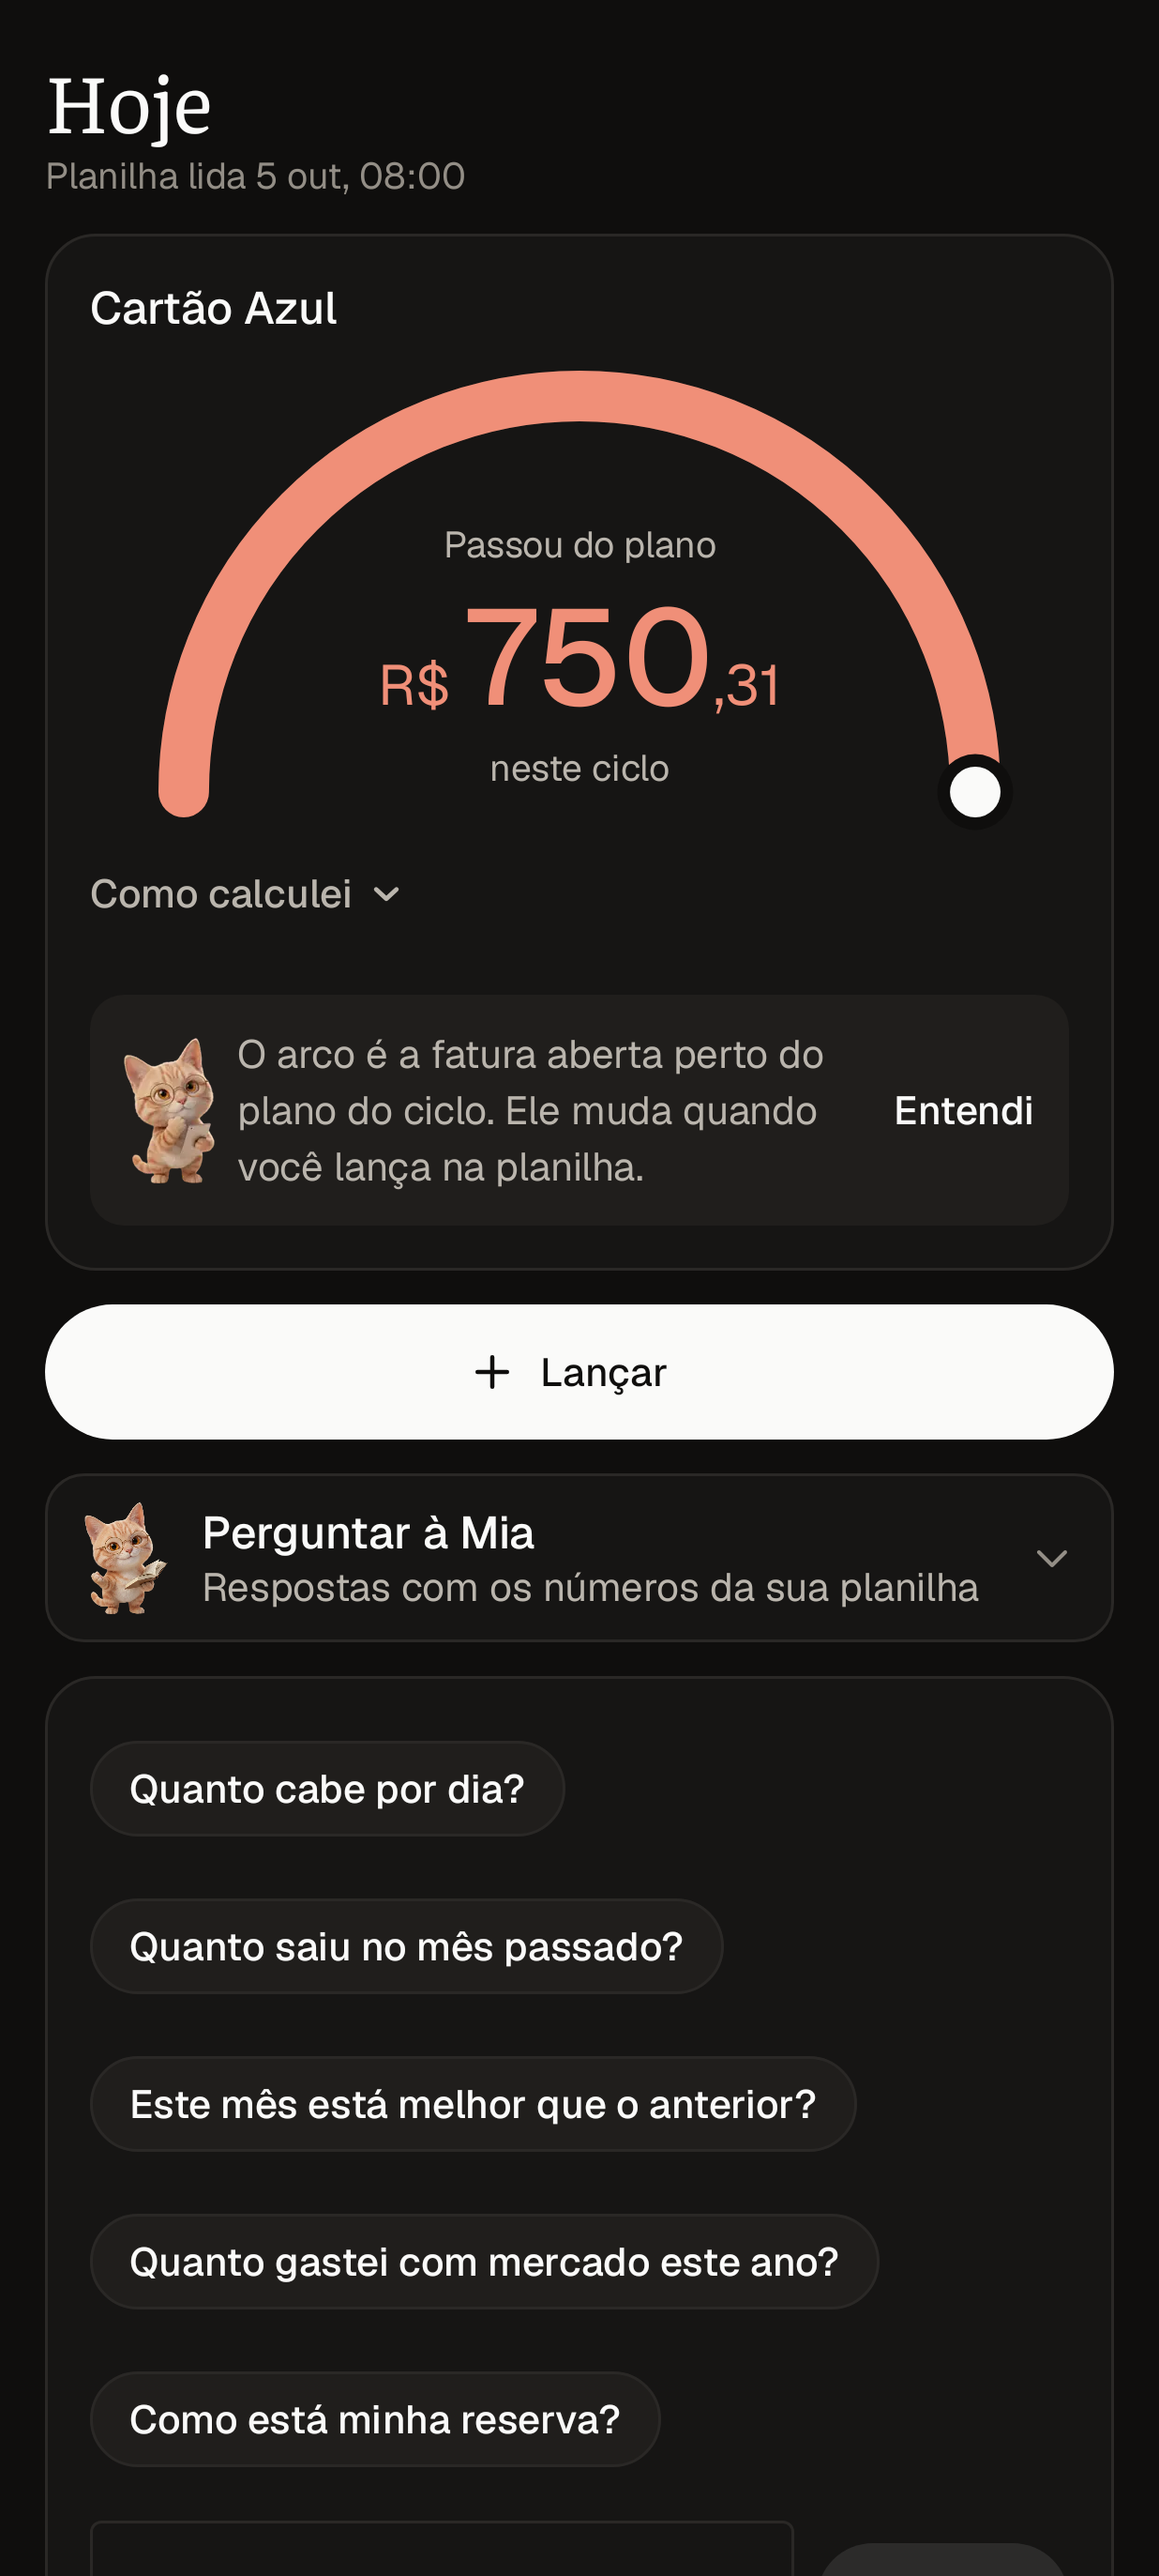
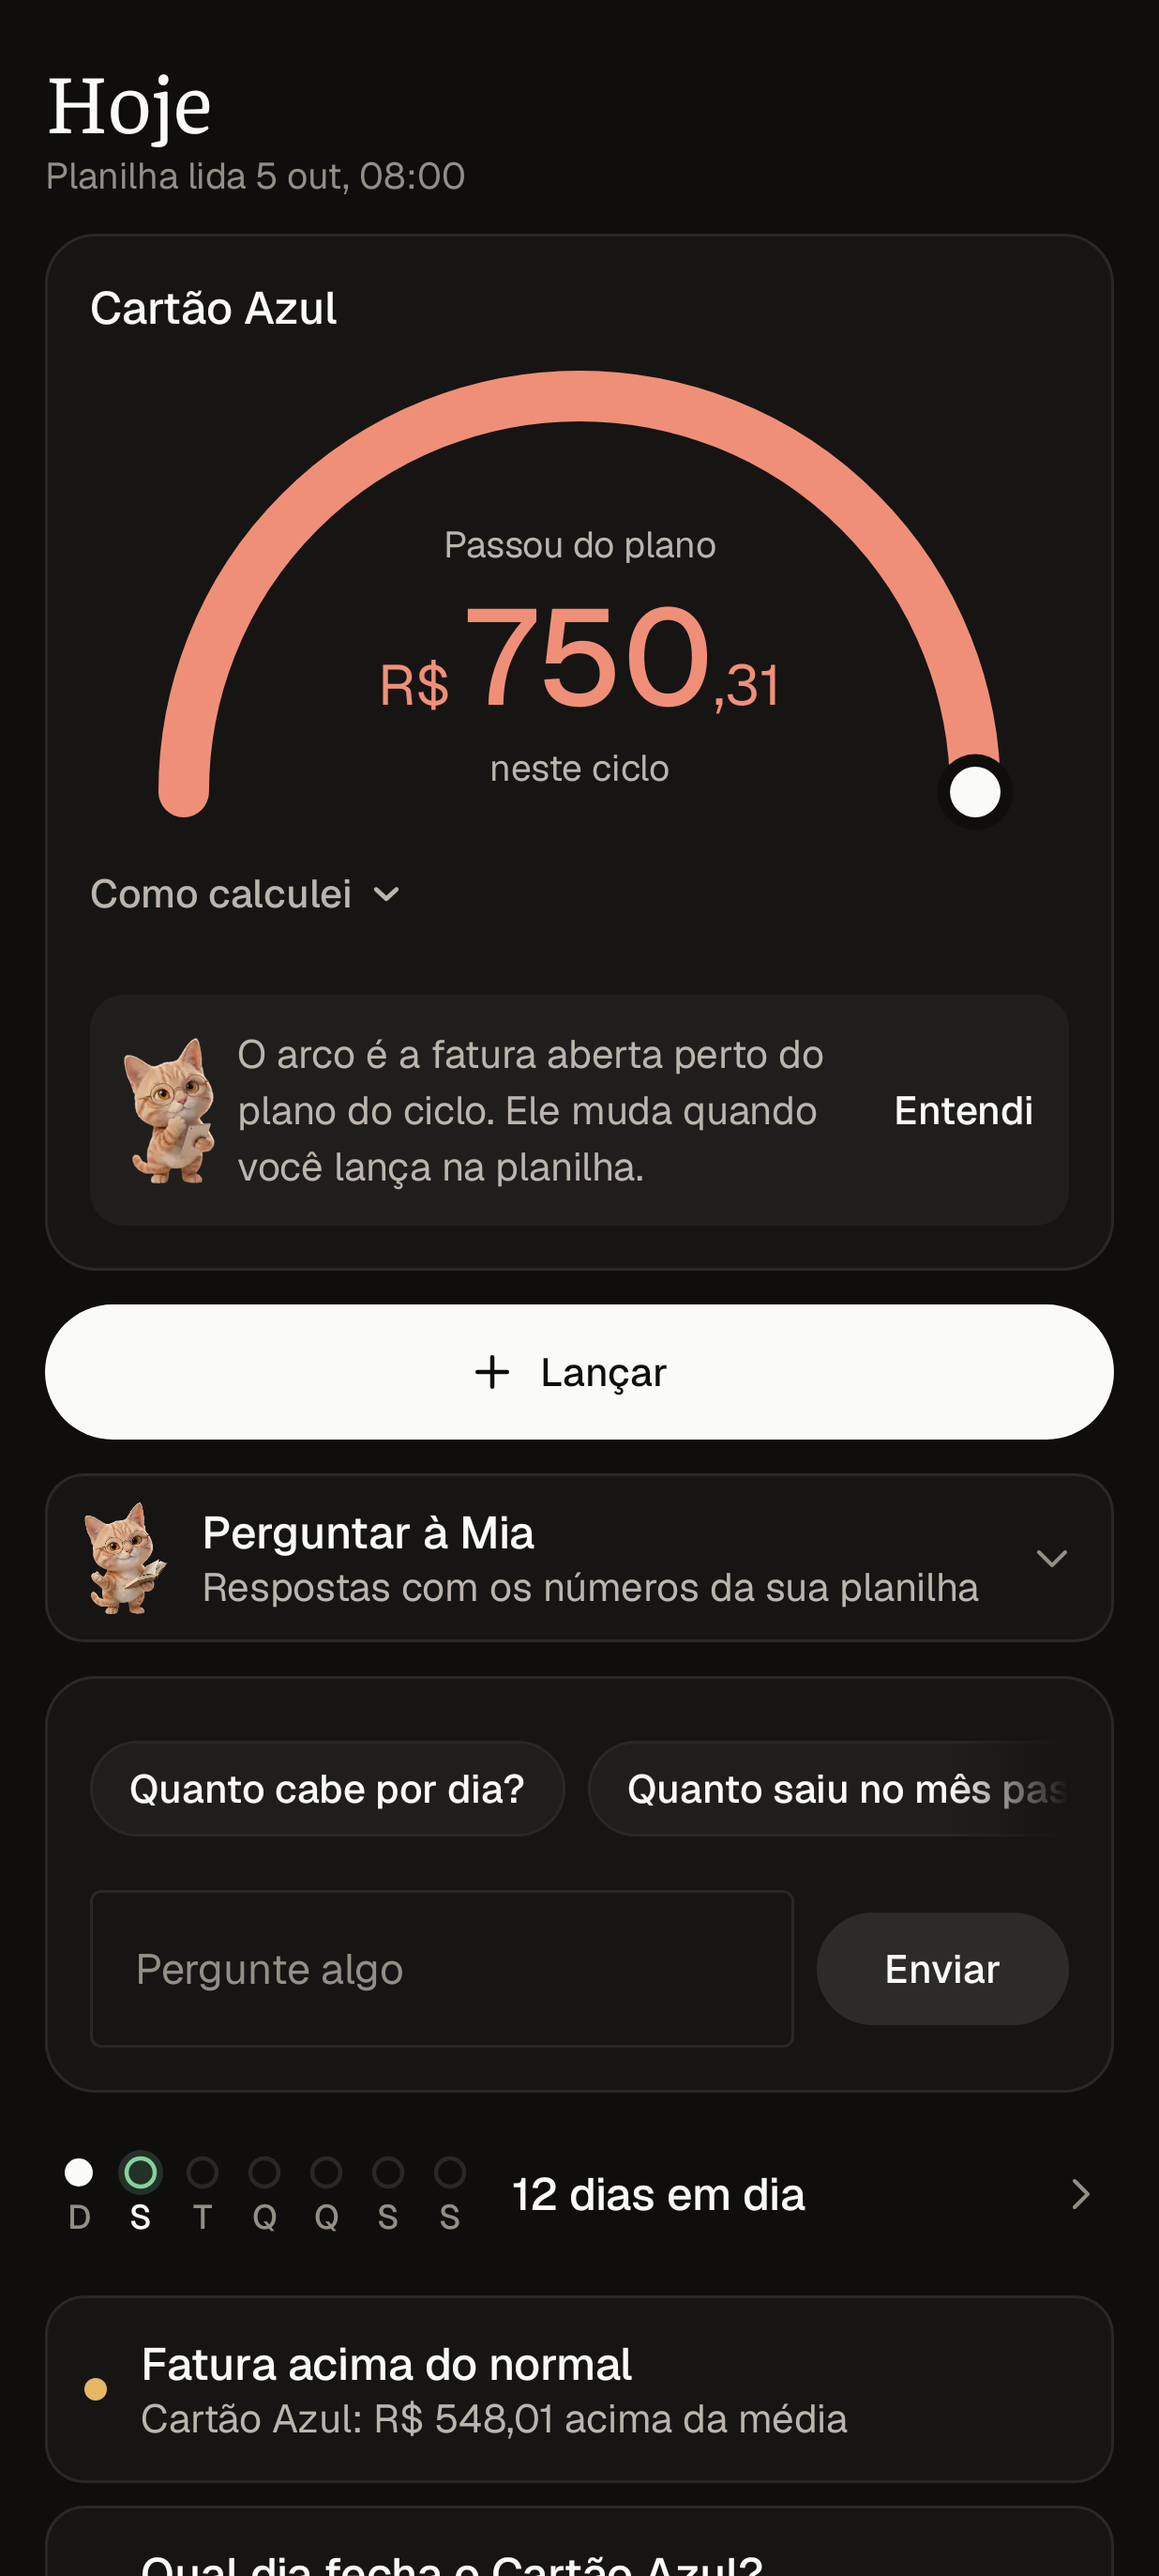
Põe as sugestões de pergunta da Mia numa linha só que desliza para o lado, com a ponta esmaecida
No celular as cinco perguntas quebravam uma por linha e empurravam o campo de texto para baixo. No computador, com espaço, elas continuam quebrando em linhas.

Claude-Session: https://claude.ai/code/session_015puGdtXzviPEaqxJtpNLAQ

diff --git a/apps/android/app/src/main/kotlin/dev/johnlaff/neko/ui/Mia.kt b/apps/android/app/src/main/kotlin/dev/johnlaff/neko/ui/Mia.kt
@@ -3,15 +3,15 @@ package dev.johnlaff.neko.ui
 import androidx.compose.foundation.background
 import androidx.compose.foundation.border
 import androidx.compose.foundation.clickable
+import androidx.compose.foundation.horizontalScroll
 import androidx.compose.foundation.layout.Arrangement
 import androidx.compose.foundation.layout.Column
-import androidx.compose.foundation.layout.ExperimentalLayoutApi
-import androidx.compose.foundation.layout.FlowRow
 import androidx.compose.foundation.layout.Row
 import androidx.compose.foundation.layout.fillMaxWidth
 import androidx.compose.foundation.layout.height
 import androidx.compose.foundation.layout.padding
 import androidx.compose.foundation.layout.size
+import androidx.compose.foundation.rememberScrollState
 import androidx.compose.foundation.shape.RoundedCornerShape
 import androidx.compose.foundation.text.KeyboardActions
 import androidx.compose.foundation.text.KeyboardOptions
@@ -32,6 +32,11 @@ import androidx.compose.runtime.setValue
 import androidx.compose.ui.Alignment
 import androidx.compose.ui.Modifier
 import androidx.compose.ui.draw.clip
+import androidx.compose.ui.draw.drawWithContent
+import androidx.compose.ui.graphics.BlendMode
+import androidx.compose.ui.graphics.Brush
+import androidx.compose.ui.graphics.Color
+import androidx.compose.ui.graphics.CompositingStrategy
 import androidx.compose.ui.graphics.graphicsLayer
 import androidx.compose.ui.semantics.LiveRegionMode
 import androidx.compose.ui.semantics.Role
@@ -122,7 +127,6 @@ fun MiaButton(open: Boolean, onClick: () -> Unit) {
     }
 }
 
-@OptIn(ExperimentalLayoutApi::class)
 @Composable
 fun MiaPanel(
     status: MiaStatus,
@@ -182,7 +186,18 @@ fun MiaPanel(
             )
         }
         if (talk.isEmpty() && paused == null) {
-            FlowRow(horizontalArrangement = Arrangement.spacedBy(8.dp), verticalArrangement = Arrangement.spacedBy(8.dp)) {
+            // One row that slides sideways: wrapped, the five questions stacked one per line on a phone.
+            Row(
+                Modifier
+                    // The last chip fades out at the edge, a hint that the row goes on.
+                    .graphicsLayer { compositingStrategy = CompositingStrategy.Offscreen }
+                    .drawWithContent {
+                        drawContent()
+                        drawRect(Brush.horizontalGradient(0.88f to Color.Black, 1f to Color.Transparent), blendMode = BlendMode.DstIn)
+                    }
+                    .horizontalScroll(rememberScrollState()),
+                horizontalArrangement = Arrangement.spacedBy(8.dp),
+            ) {
                 MIA_SUGGESTIONS.forEach { q -> Suggestion(q, enabled = !pending) { send(q) } }
             }
         }
@@ -238,6 +253,8 @@ private fun Suggestion(text: String, enabled: Boolean, onClick: () -> Unit) {
         text,
         color = l.text,
         style = MaterialTheme.typography.labelLarge,
+        maxLines = 1,
+        softWrap = false,
         modifier = Modifier
             .minimumInteractiveComponentSize()
             .background(l.surface2, shape)

diff --git a/apps/android/app/src/test/kotlin/dev/johnlaff/neko/ScreenshotTest.kt b/apps/android/app/src/test/kotlin/dev/johnlaff/neko/ScreenshotTest.kt
@@ -5,7 +5,7 @@ import androidx.compose.foundation.layout.Box
 import androidx.compose.material3.MaterialTheme
 import androidx.compose.ui.Modifier
 import androidx.compose.ui.test.junit4.v2.createComposeRule
-import androidx.compose.ui.test.hasScrollAction
+import androidx.compose.ui.test.hasScrollToIndexAction
 import androidx.compose.ui.test.hasText
 import androidx.compose.ui.test.onRoot
 import androidx.compose.ui.test.performScrollToNode
@@ -174,7 +174,8 @@ class ScreenshotTest {
         compose.setContent {
             NekoTheme { Box(Modifier.background(MaterialTheme.colorScheme.background)) { content() } }
         }
-        scrollTo?.let { compose.onNode(hasScrollAction()).performScrollToNode(hasText(it)) }
+        // The screen's list, not a row that slides sideways inside it (Mia's suggestions).
+        scrollTo?.let { compose.onNode(hasScrollToIndexAction()).performScrollToNode(hasText(it)) }
         compose.onRoot().captureRoboImage("screenshots/$name.png")
     }
 }

diff --git a/apps/neko/src/web/styles.css b/apps/neko/src/web/styles.css
@@ -2377,14 +2377,26 @@ a.mia-value {
 .mia-status:empty {
   display: none;
 }
+/* One row that slides sideways on a phone; wrapped, the questions stacked one per line */
 .mia-suggest {
   display: flex;
-  flex-wrap: wrap;
   gap: 8px;
+  overflow-x: auto;
+  scrollbar-width: none;
+  overscroll-behavior-x: contain;
+  /* The last chip fades out at the edge, a hint that the row goes on */
+  mask-image: linear-gradient(to right, #000 88%, transparent);
 }
 .mia-suggest > button.chip-button {
-  flex: 0 1 auto;
+  flex: 0 0 auto;
+  white-space: nowrap;
   padding: 0 14px;
+}
+@media (min-width: 720px) {
+  .mia-suggest {
+    flex-wrap: wrap;
+    mask-image: none;
+  }
 }
 form.mia-form {
   display: flex;
